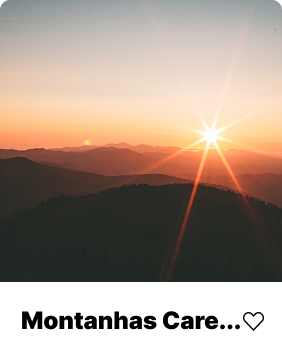
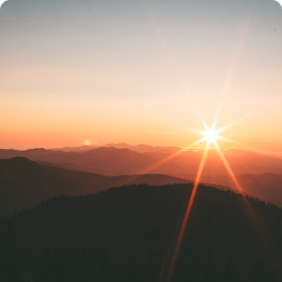
finalização do css

diff --git a/index.html b/index.html
@@ -21,22 +21,112 @@
         src="./images/Vector.png"
         alt="Logo Around the U.S"
       />
-      <p class="header__line"></p>
     </header>
-    <section></section>
-    <section class="elements">
-      <img src="../images/parque-nacional.png" alt="Lago no parque nacional" />
-      <img src="../images/latemar.png" alt="Montanhas em Latemar" />
-      <img src="../images/lago-de-braies.png" alt="Barcos no Lago de Braies" />
-      <img src="../images/montanhas-care.png" alt="Por do sol nas montanhas" />
-      <img
-        src="../images/lago-louise.png"
-        alt="Lago Louise no pé das montanhas"
-      />
-      <img src="../images/vale-de-yosemite.png" alt="Vale de Yosemite" />
-    </section>
-    <footer>
-      <p>&copy; 2024 Around The U.S.</p>
+    <main class="main">
+      <section class="profile">
+        <img class="profile__avatar" src="" alt="" />
+        <div class="profile__description">
+          <h1 class="profile__profile-info">nome</h1>
+          <button class="profile__edit-button"></button>
+        </div>
+        <button class="profile__add-button" type="submit">+</button>
+      </section>
+      <section class="elements">
+        <div class="element">
+          <img
+            class="element__image"
+            src="../images/parque-nacional.png"
+            alt="Lago no parque nacional"
+          />
+          <div class="element__description">
+            <p class="element__paragraph">Parque Nacional</p>
+            <img
+              class="element__image-heart"
+              src="./images/heart.png"
+              alt="Coração"
+            />
+          </div>
+        </div>
+        <div class="element">
+          <img
+            class="element__image"
+            src="../images/latemar.png"
+            alt="Montanhas em Latemar"
+          />
+          <div class="element__description">
+            <p class="element__paragraph">Latemar</p>
+            <img
+              class="element__image-heart"
+              src="./images/heart.png"
+              alt="Coração"
+            />
+          </div>
+        </div>
+        <div class="element">
+          <img
+            class="element__image"
+            src="../images/lago-de-braies.png"
+            alt="Barcos no Lago de Braies"
+          />
+          <div class="element__description">
+            <p class="element__paragraph">Lago de Braies</p>
+            <img
+              class="element__image-heart"
+              src="./images/heart.png"
+              alt="Coração"
+            />
+          </div>
+        </div>
+        <div class="element">
+          <img
+            class="element__image"
+            src="../images/montanhas-care.png"
+            alt="Por do sol nas montanhas"
+          />
+          <div class="element__description">
+            <p class="element__paragraph">Montanhas Carefour</p>
+            <img
+              class="element__image-heart"
+              src="./images/heart.png"
+              alt="Coração"
+            />
+          </div>
+        </div>
+        <div class="element">
+          <img
+            class="element__image"
+            src="../images/lago-louise.png"
+            alt="Lago Louise no pé das montanhas"
+          />
+          <div class="element__description">
+            <p class="element__paragraph">Lago Louise</p>
+            <img
+              class="element__image-heart"
+              src="./images/heart.png"
+              alt="Coração"
+            />
+          </div>
+        </div>
+        <div class="element">
+          <img
+            class="element__image"
+            src="../images/vale-de-yosemite.png"
+            alt="Vale de Yosemite"
+          />
+          <div class="element__description">
+            <p class="element__paragraph">Vale de Yosemite</p>
+            <img
+              class="element__image-heart"
+              src="./images/heart.png"
+              alt="Coração"
+            />
+          </div>
+        </div>
+      </section>
+    </main>
+    <footer class="footer">
+      <p class="footer__text">&copy; 2024 Around The U.S.</p>
     </footer>
+    <script></script>
   </body>
 </html>

diff --git a/blocks/elements.css b/blocks/elements.css
@@ -1,45 +1,82 @@
 .elements {
-  width: 880px;
-  height: 743px;
-  top: 329px;
-  left: 200px;
+  display: grid;
+  grid-template-columns: repeat(auto-fit, minmax(282px, 1fr));
+  place-items: center;
+  max-width: 880px;
+  width: 100%;
+  margin: 0 auto;
+  margin-top: 50px;
   border-top-left-radius: 10px;
   border-top-right-radius: 10px;
-  opacity: 1;
+  justify-self: center;
+  align-self: center;
+  column-gap: 17px;
+  row-gap: 20px;
+  box-sizing: border-box;
 }
 
-.elements__group {
-  width: 21px;
-  height: 19px;
-  top: 1022px;
-  left: 443px;
-  opacity: 1;
-  border-width: 1.5px;
+.element {
+  width: 100%;
+  background-color: white;
+  border-radius: 10px;
 }
 
-.elements__img {
-  width: 282px;
-  height: 282px;
-  top: 710px;
-  left: 200px;
+.element__image {
+  width: 100%;
+  height: 100%;
+  margin: 0;
   border-top-left-radius: 10px;
   border-top-right-radius: 10px;
-  opacity: 1;
 }
 
-.elements__text {
-  font-family: Inter;
+.element__description {
+  background-color: white;
+  color: black;
   font-weight: 900;
   font-size: 24px;
   line-height: 100%;
-  letter-spacing: 0%;
+  display: flex;
+  flex-direction: row;
+  justify-content: space-between;
+  align-items: center;
+  padding: 25px;
+  border-bottom-left-radius: 10px;
+  border-bottom-right-radius: 10px;
 }
 
-.elements__card {
-  width: 282px;
-  height: 361px;
-  top: 710px;
-  left: 200px;
-  opacity: 1;
-  border-radius: 10px;
+.element__paragraph {
+  background-color: white;
+  color: black;
+  font-size: 24px;
+  line-height: 100%;
+  grid-template-columns: repeat(auto-fit, minmax(282px, 1fr));
+  margin: 0;
+  max-width: 220px;
+  text-overflow: ellipsis;
+  white-space: nowrap;
+  overflow: hidden;
+}
+
+.element__image-heart {
+  width: 21px;
+  height: 19px;
+}
+
+@media screen and (max-width: 1024px) {
+  .elements {
+    row-gap: 21px;
+    column-gap: 17px;
+    justify-content: center;
+    padding-left: 40px;
+    padding-right: 40px;
+  }
+}
+@media screen and (max-width: 544px) {
+  .elements {
+    justify-content: center;
+    align-self: center;
+    row-gap: 20px;
+    padding-left: 19px;
+    padding-right: 19px;
+  }
 }

diff --git a/blocks/profile.css b/blocks/profile.css
@@ -1,9 +1,19 @@
+.main {
+  display: flex;
+  flex-direction: column;
+  justify-content: center;
+  align-items: center;
+}
+
 .profile {
-  width: 880px;
+  display: flex;
+  justify-content: space-between;
+  text-align: center;
+  max-width: 880px;
   height: 120px;
-  top: 159px;
-  left: 200px;
-  opacity: 1;
+  margin-top: 159px;
+  width: 100%;
+  align-items: center;
 }
 
 .profile__avatar {
@@ -11,16 +21,24 @@
   height: 120px;
   top: 159px;
   left: 200px;
-  opacity: 1;
+}
+
+.profile__description {
+  display: flex;
+  gap: 10px;
+  align-items: center;
 }
 
 .profile__profile-info {
-  width: 415px;
-  height: 77px;
   top: 181px;
   left: 350px;
-  opacity: 1;
   border-width: 1px;
+}
+
+.profile__edit-button {
+  height: 24px;
+  width: 24px;
+  background-image: url("./../images/edit-button.png");
 }
 
 .profile__add-button {
@@ -28,5 +46,22 @@
   height: 50px;
   top: 194px;
   left: 930px;
-  opacity: 1;
+}
+
+@media screen and (max-width: 1024px) {
+  .profile {
+    flex-direction: column;
+    margin-top: 159px;
+    align-items: center;
+    justify-content: center;
+    margin-bottom: 50px;
+  }
+}
+
+@media screen and (max-width: 544px) {
+  .profile {
+    margin-top: 159px;
+    justify-content: center;
+    margin-bottom: 36px;
+  }
 }

diff --git a/blocks/header.css b/blocks/header.css
@@ -1,25 +1,30 @@
 .header {
-  width: 880px;
+  display: flex;
+  margin: 0 auto;
+  max-width: 880px;
   height: 74px;
-  top: 45px;
-  left: 200px;
-  opacity: 1;
-  border-width: 1px;
+  border-bottom: 1px solid;
+  padding-bottom: 41px;
 }
 
 .header__vector {
+  justify-content: flex-start;
   width: 173px;
   height: 33px;
   margin-top: 45px;
-  margin-left: 200px;
-  opacity: 1;
 }
 
-.header__line {
-  width: 880px;
-  height: 0px;
-  top: 119px;
-  left: 200px;
-  opacity: 0.7;
-  border-width: 1px;
+@media screen and (max-width: 1024px) {
+  .header {
+    max-width: 75%;
+  }
+}
+
+@media screen and (max-width: 544px) {
+  .header__vector {
+    width: 126px;
+    height: 24px;
+    margin-left: 27px;
+    margin-top: 28px;
+  }
 }

diff --git a/blocks/footer.css b/blocks/footer.css
@@ -1,15 +1,26 @@
 .footer {
+  display: flex;
   width: 318px;
   height: 18px;
-  top: 1139px;
-  left: 200px;
+  margin-top: 67px;
+  margin-bottom: 60px;
+  margin-left: 200px;
   opacity: 1;
 }
 
 .footer__text {
-  width: 318px;
-  height: 18px;
-  top: 1139px;
-  left: 200px;
-  opacity: 1;
+  color: #545454;
+  font-size: 18px;
+  font-weight: 400;
+  line-height: 100%;
+}
+
+@media screen and (max-width: 544px) {
+  .footer {
+    width: 282px;
+    height: 14px;
+    margin-left: 19px;
+    margin-bottom: 36px;
+    font-size: 14px;
+  }
 }
